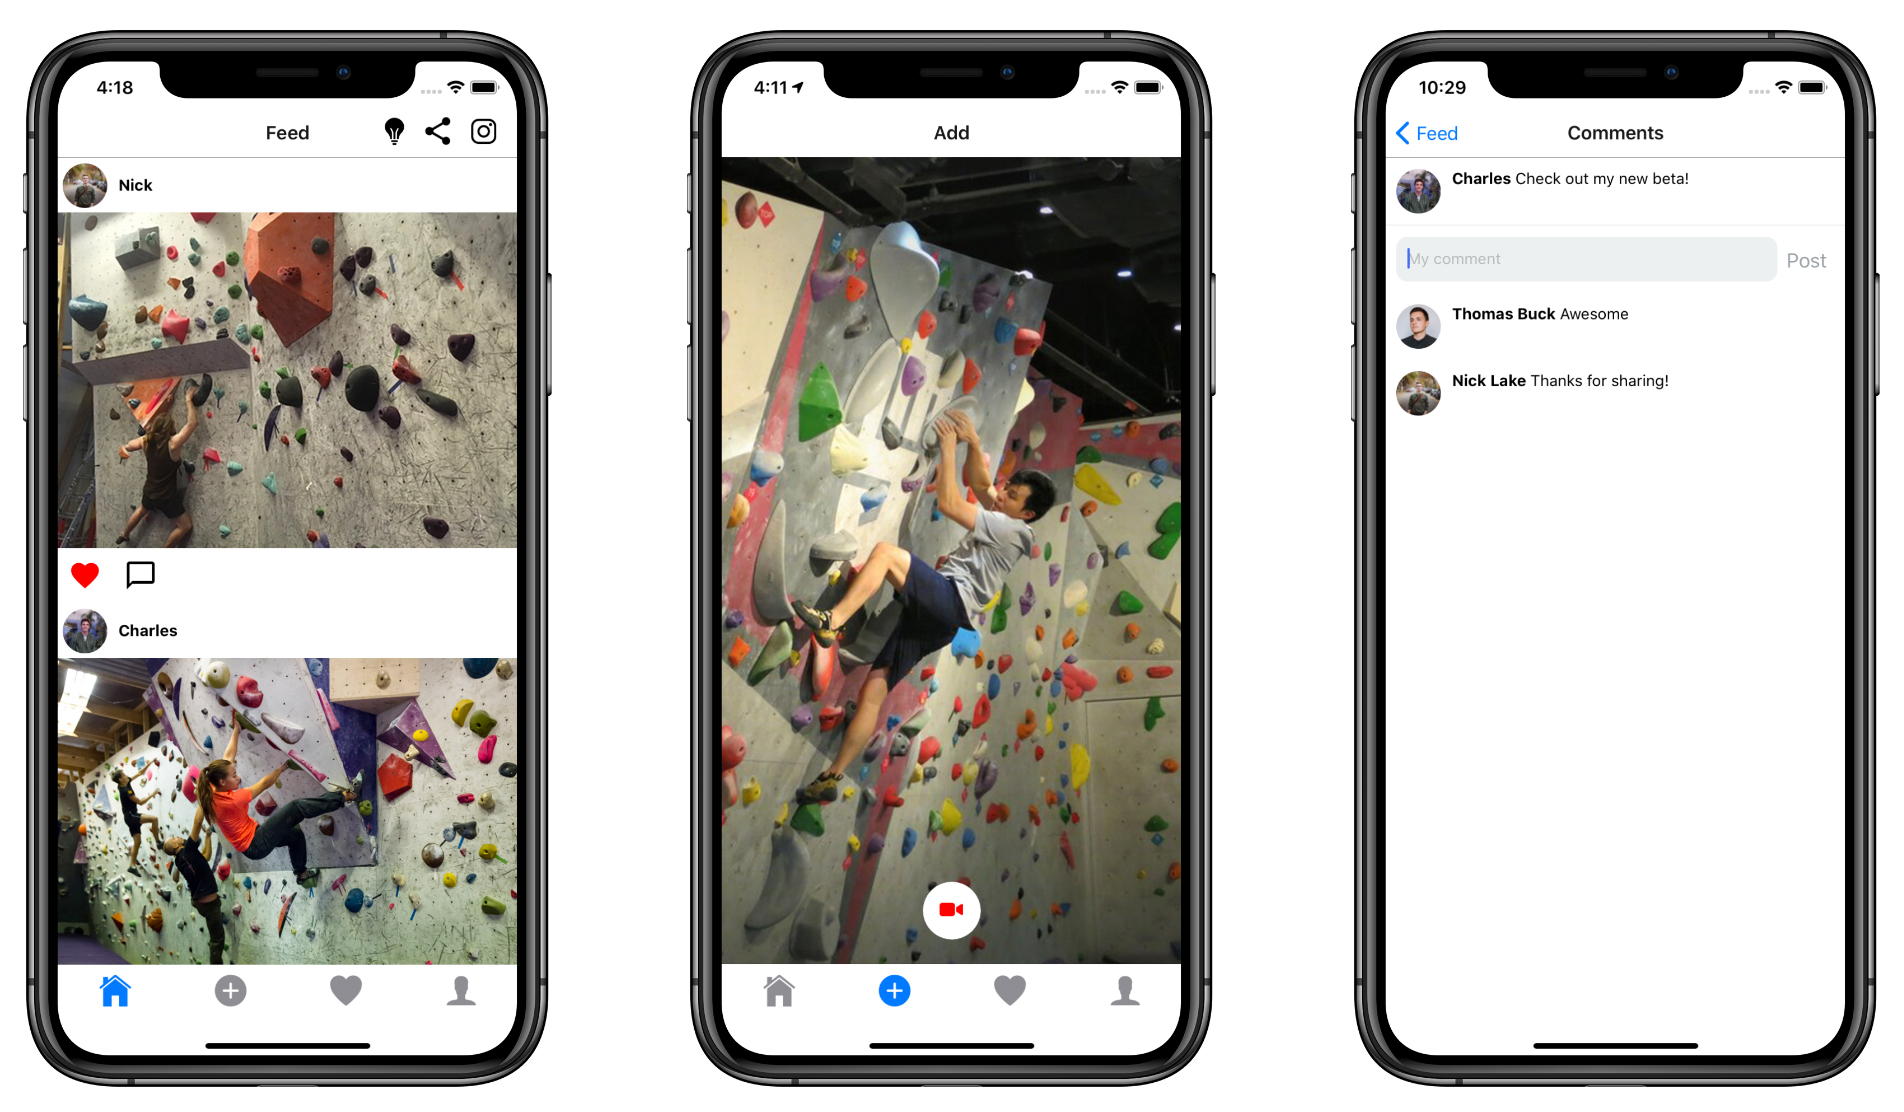
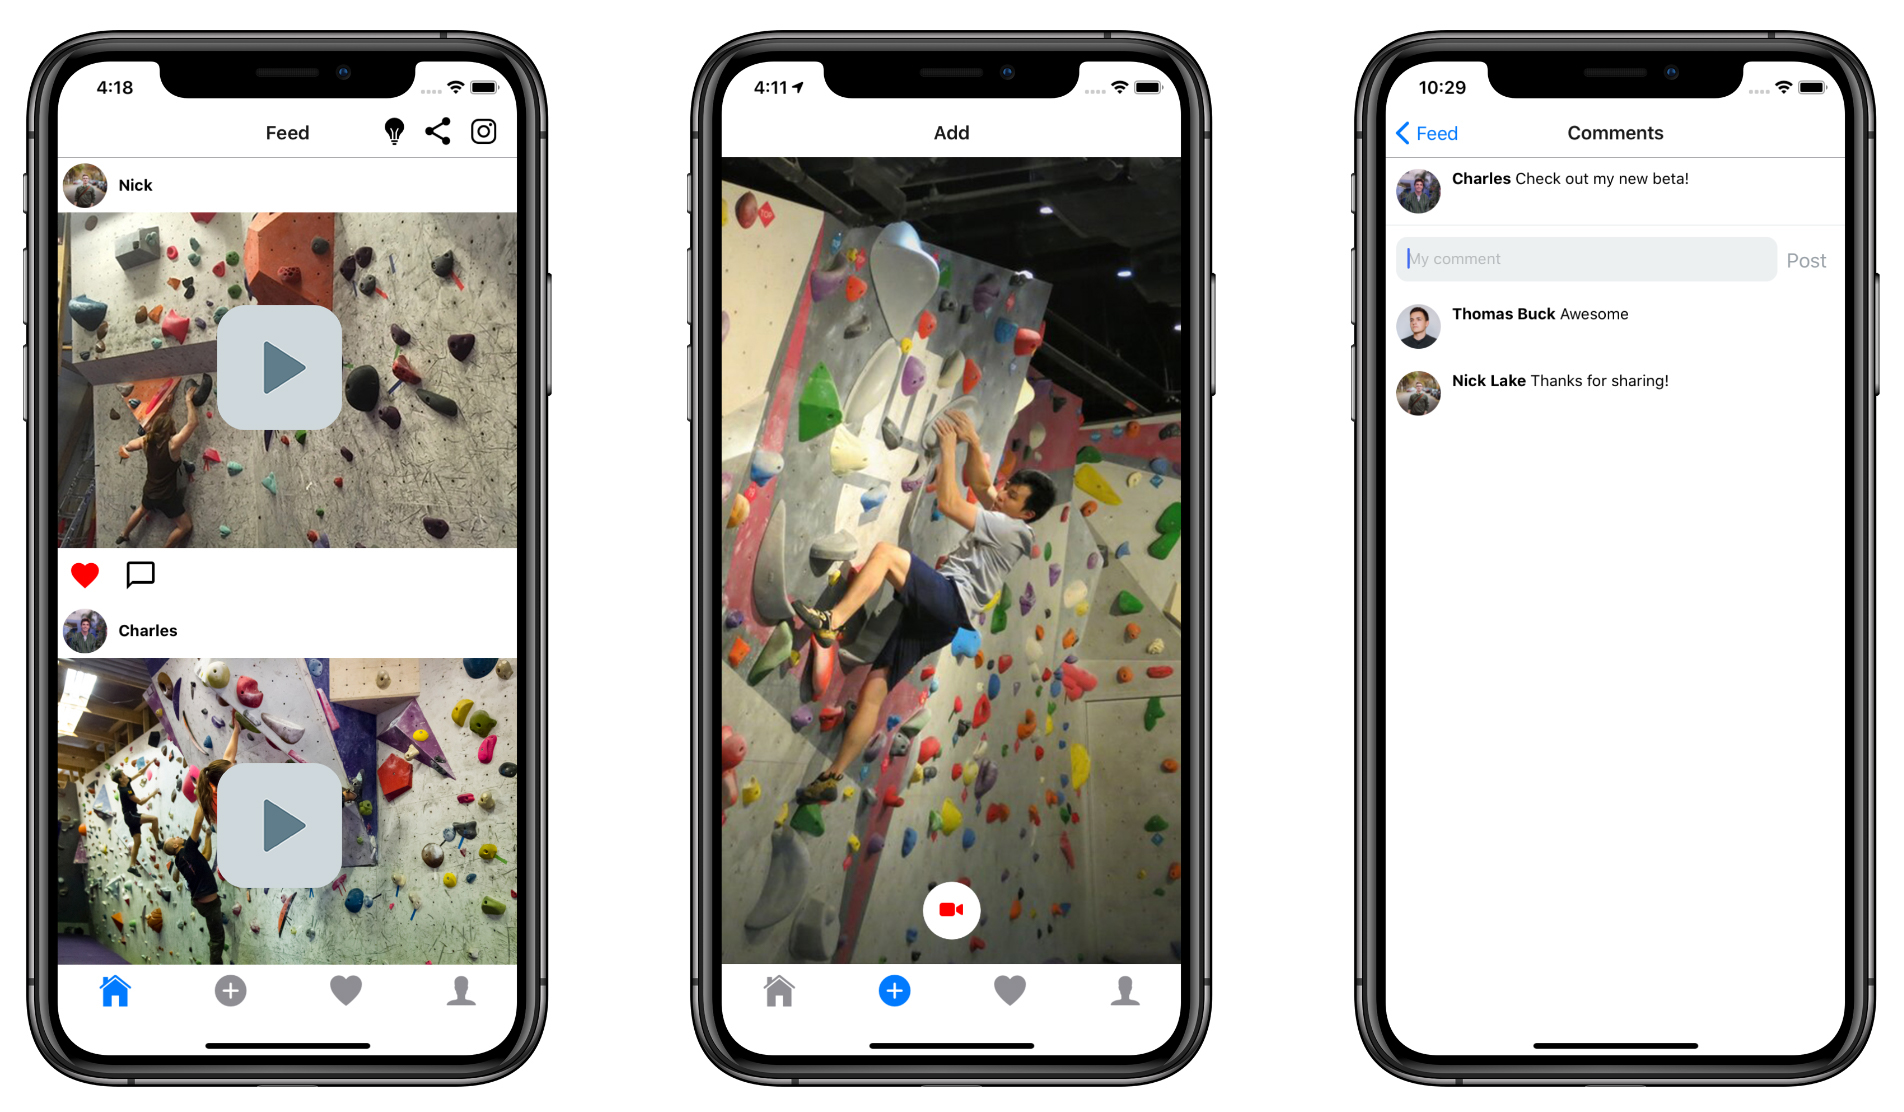
Add files via upload
Small visual fixes

Changed region(s): [[0.093, 0.2752, 0.1859, 0.3975], [0.093, 0.6727, 0.1859, 0.795]]

diff --git a/index.html b/index.html
@@ -80,7 +80,7 @@
 							<section class="posts">
 								<article>
 									<header>
-										<h2>Browse Betas uploaded at your local gym</h2>
+										<h2>Browse Videos uploaded at your local gym</h2>
 									</header>
 									<div class="image fit"></a><img src="images/shot1.png" alt="" /></div>
 									<!--<p>Donec eget ex magna. Interdum et malesuada fames ac ante ipsum primis in faucibus. Pellentesque venenatis dolor imperdiet dolor mattis sagittis magna etiam.</p>-->
